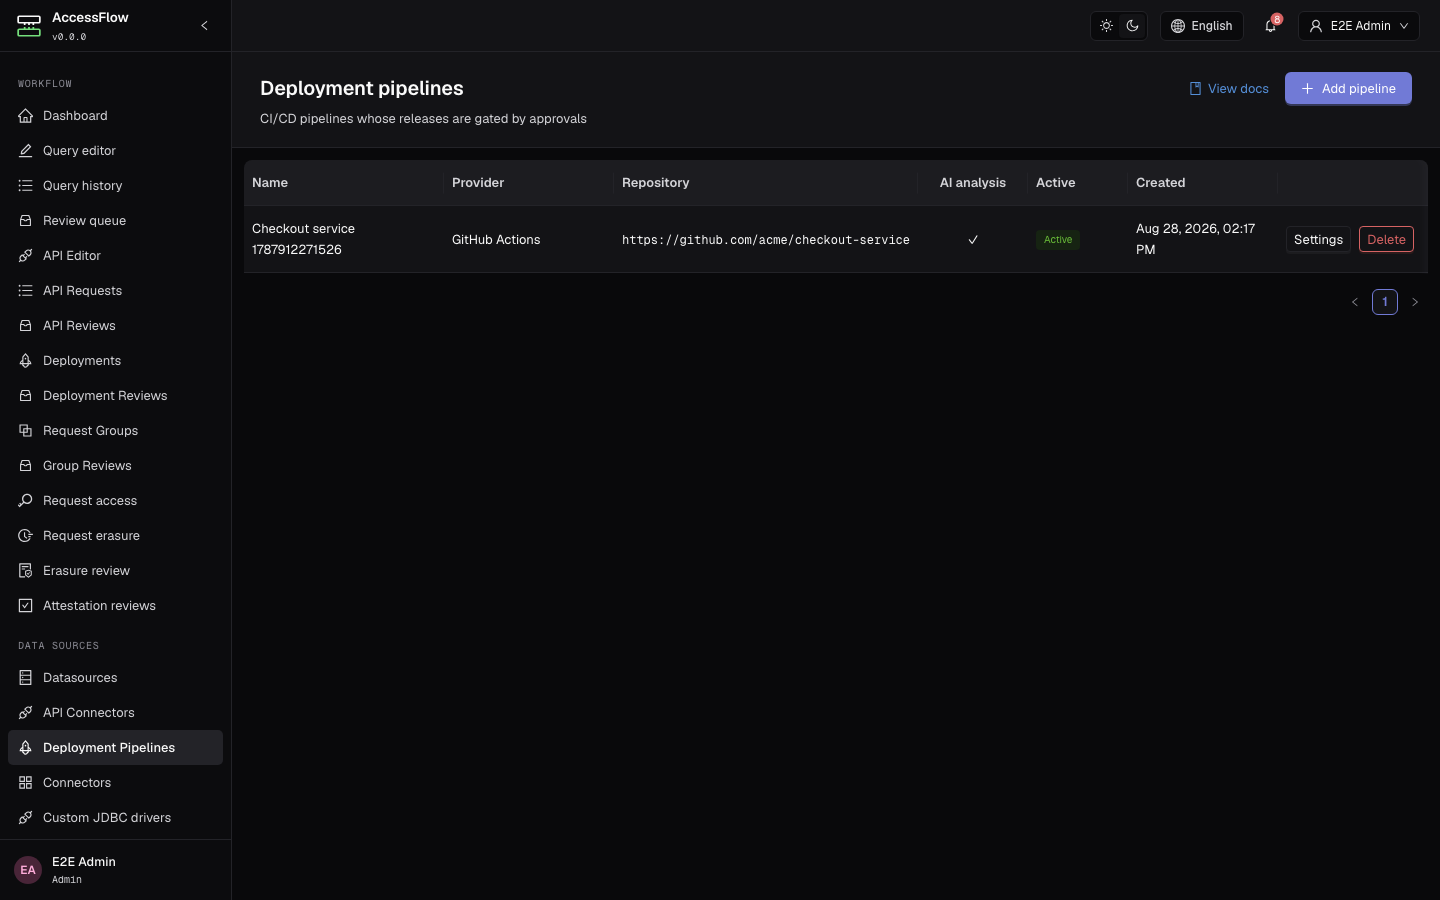
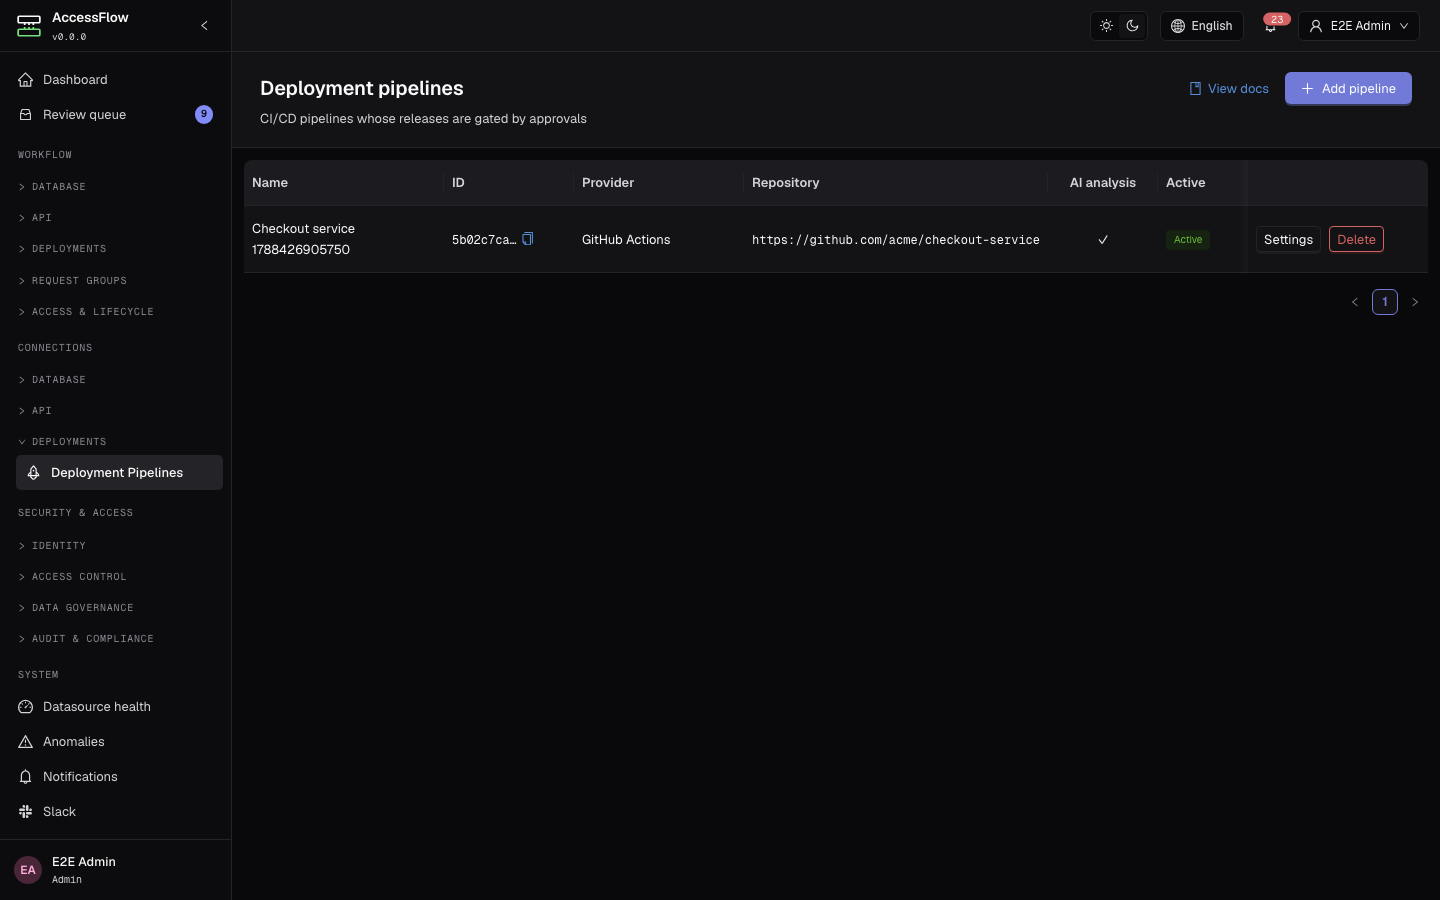
fix(AF-771): pin row actions, align docs, refresh deploygov screenshots

diff --git a/e2e/tests/deployment-pipelines.spec.ts b/e2e/tests/deployment-pipelines.spec.ts
@@ -1,6 +1,6 @@
 import { expect, test } from '@playwright/test';
 import { loginViaApi } from '../helpers/datasources';
-import { activeTabPanel, clickTab } from '../helpers/ui';
+import { activeTabPanel, clickTab, findRowAcrossPages } from '../helpers/ui';
 import {
   createDeploymentPipelineViaApi,
   deleteDeploymentPipelineViaApi,
@@ -140,34 +140,6 @@ test.describe.serial('deployment pipeline administration (#696)', () => {
     await expect(ciPanel.getByTestId('ci-snippet')).toContainText(pipeline.id);
   });
 
-  test('exposes the pipeline id as a copyable header control (#771)', async ({ page, request }) => {
-    const pipeline = await createDeploymentPipelineViaApi(request, adminAccessToken, {
-      name: `e2e-pipeline-id-${Date.now()}`,
-      aiAnalysisEnabled: false,
-    });
-    createdPipelineIds.push(pipeline.id);
-
-    // Chromium only grants clipboard writes to a permitted origin.
-    await page.context().grantPermissions(['clipboard-read', 'clipboard-write']);
-    await login(page, ADMIN_EMAIL, ADMIN_PASSWORD);
-
-    // The list carries the truncated id; the settings header carries it in full.
-    await page.goto('/admin/deployment-pipelines');
-    const row = page.locator('.ant-table-row', { hasText: pipeline.name });
-    await expect(row).toBeVisible({ timeout: 15_000 });
-    await expect(row.getByTestId('pipeline-id')).toContainText(pipeline.id.slice(0, 8));
-
-    await page.goto(`/admin/deployment-pipelines/${pipeline.id}`);
-    await expect(page.getByRole('heading', { name: pipeline.name })).toBeVisible({
-      timeout: 15_000,
-    });
-    await expect(page.getByTestId('pipeline-id')).toHaveText(pipeline.id);
-
-    // AntD derives the copy button's accessible name from the tooltip string.
-    await page.getByRole('button', { name: 'Copy pipeline ID' }).click();
-    const copied = await page.evaluate(() => navigator.clipboard.readText());
-    expect(copied).toBe(pipeline.id);
-  });
 
   test('deletes a pipeline from the list', async ({ page, request }) => {
     const pipeline = await createDeploymentPipelineViaApi(request, adminAccessToken, {
@@ -192,5 +164,39 @@ test.describe.serial('deployment pipeline administration (#696)', () => {
     await expect(page.locator('.ant-table-row', { hasText: pipeline.name })).toHaveCount(0, {
       timeout: 10_000,
     });
+  });
+
+  test('exposes the pipeline id as a copyable control on both pages (#771)', async ({
+    page,
+    request,
+  }) => {
+    const pipeline = await createDeploymentPipelineViaApi(request, adminAccessToken, {
+      name: `e2e-pipeline-id-${Date.now()}`,
+      aiAnalysisEnabled: false,
+    });
+    createdPipelineIds.push(pipeline.id);
+
+    // The readText() assertion below is what needs a grant; the write does not.
+    await page.context().grantPermissions(['clipboard-read', 'clipboard-write']);
+    await login(page, ADMIN_EMAIL, ADMIN_PASSWORD);
+
+    // The list carries the truncated id. The pipeline list is unordered and org-shared, so the
+    // row is not reliably on page 1 under the parallel project.
+    await page.goto('/admin/deployment-pipelines');
+    const row = page.locator('.ant-table-row', { hasText: pipeline.name });
+    await findRowAcrossPages(page, row);
+    await expect(row.getByTestId('pipeline-id')).toContainText(pipeline.id.slice(0, 8));
+
+    // The settings header carries it in full — the point of the issue: no URL reading.
+    await page.goto(`/admin/deployment-pipelines/${pipeline.id}`);
+    await expect(page.getByRole('heading', { name: pipeline.name })).toBeVisible({
+      timeout: 15_000,
+    });
+    await expect(page.getByTestId('pipeline-id')).toHaveText(pipeline.id);
+
+    // AntD derives the copy button's accessible name from the tooltip string.
+    await page.getByRole('button', { name: 'Copy pipeline ID' }).click();
+    const copied = await page.evaluate(() => navigator.clipboard.readText());
+    expect(copied).toBe(pipeline.id);
   });
 });

diff --git a/website/docs/configuration/review-workflows/index.html b/website/docs/configuration/review-workflows/index.html
@@ -681,11 +681,8 @@ APPROVED → FAILED (execution error)</pre>
           <p>
             <strong>Configure it.</strong> Create pipelines at
             <code>/admin/deployment-pipelines</code> (requires the
-            <code>DEPLOYMENT_PIPELINE_MANAGE</code> permission, held by <code>ADMIN</code>). A CI job
-            names its pipeline by <strong>id</strong>, never by name, so that id is copyable from
-            both places you meet a pipeline: shortened in the list's <strong>ID</strong> column, and
-            in full beneath the name on the pipeline's settings page. Each pipeline's settings page
-            carries seven tabs. Alongside <strong>General</strong> and the
+            <code>DEPLOYMENT_PIPELINE_MANAGE</code> permission, held by <code>ADMIN</code>). Each
+            pipeline's settings page carries seven tabs. Alongside <strong>General</strong> and the
             <strong>CI setup</strong> snippet sit <strong>Environments</strong> (promotion
             order, tags, required approvals, review-plan override, break-glass opt-in),
             <strong>Versions</strong> (which version each environment is running — see below),
@@ -701,6 +698,14 @@ APPROVED → FAILED (execution error)</pre>
             held by <code>ADMIN</code> and <code>REVIEWER</code>) — the same page that holds
             query and API-request reviews, with one tab per kind of request you may review and a
             pending count on each; everyone sees their own at <code>/deployments</code>.
+          </p>
+          <p>
+            <strong>Where the pipeline id is.</strong> A CI job names its pipeline by
+            <strong>id</strong>, never by name, because a trigger-only API key is not allowed to
+            list pipelines and so has nothing to resolve a name against. You can copy that id from
+            either place you meet a pipeline: the list's <strong>ID</strong> column, which shows a
+            shortened form, and the pipeline's settings page, which shows it in full beneath the
+            name. Both copy the whole UUID, not the shortened form.
           </p>
           <figure class="docs-figure">
             <picture>

diff --git a/frontend/src/components/deployments/PipelineIdCopy.test.tsx b/frontend/src/components/deployments/PipelineIdCopy.test.tsx
@@ -1,4 +1,4 @@
-import { describe, expect, it, vi } from 'vitest';
+import { afterEach, describe, expect, it, vi } from 'vitest';
 import { act, fireEvent, render, screen } from '@testing-library/react';
 import '@/i18n';
 import { PipelineIdCopy } from './PipelineIdCopy';
@@ -6,6 +6,8 @@ import { PipelineIdCopy } from './PipelineIdCopy';
 const ID = '11111111-2222-3333-4444-555555555555';
 
 describe('PipelineIdCopy', () => {
+  afterEach(() => vi.unstubAllGlobals());
+
   it('renders the whole id and a t()-labelled copy control', () => {
     render(<PipelineIdCopy id={ID} />);
 
@@ -24,10 +26,11 @@ describe('PipelineIdCopy', () => {
       fireEvent.click(screen.getByRole('button', { name: 'Copy pipeline ID' }));
     });
     expect(writeText).toHaveBeenCalledWith(ID);
-    vi.unstubAllGlobals();
+    // The rendered text is not the value, so the whole id has to stay reachable on hover.
+    expect(screen.getByTestId('pipeline-id')).toHaveAttribute('title', ID);
   });
 
-  it('stops a copy click from reaching a clickable row wrapper', async () => {
+  it('stops a click on the id text from reaching a clickable row wrapper', async () => {
     const onRowClick = vi.fn();
     render(
       <div onClick={onRowClick}>
@@ -35,8 +38,10 @@ describe('PipelineIdCopy', () => {
       </div>,
     );
 
+    // The id text, not the copy button: AntD stops the button's click on its own, so only a
+    // click on the value itself exercises this component's handler.
     await act(async () => {
-      fireEvent.click(screen.getByRole('button', { name: 'Copy pipeline ID' }));
+      fireEvent.click(screen.getByTestId('pipeline-id'));
     });
     expect(onRowClick).not.toHaveBeenCalled();
   });

diff --git a/website/docs/guides/deployment-approval/index.html b/website/docs/guides/deployment-approval/index.html
@@ -393,9 +393,9 @@
           <div class="docs-callout info">
             <strong>Copy the pipeline id now.</strong> Creating a pipeline lands you on its settings
             page, where the UUID sits under the pipeline name with a copy button beside it — that
-            UUID is <strong>the pipeline id</strong> your CI job needs. The pipeline list also
-            carries a shortened, copyable <em>ID</em> column, so you never have to open a pipeline
-            or read the address bar just to grab it.
+            UUID is <strong>the pipeline id</strong> your CI job needs. The pipeline list carries the
+            same id in an <em>ID</em> column, shortened for the table but copying the whole UUID, so
+            you never have to open a pipeline or read the address bar just to grab it.
           </div>
           <p>
             The pipeline is identified by that UUID rather than by name because a trigger-only API

diff --git a/frontend/src/components/deployments/PipelineIdCopy.tsx b/frontend/src/components/deployments/PipelineIdCopy.tsx
@@ -23,8 +23,11 @@ export function PipelineIdCopy({ id, truncate = false }: PipelineIdCopyProps) {
         text: id,
         tooltips: [t('deploygov.pipelines.copyId'), t('deploygov.pipelines.copiedId')],
       }}
-      // The pipeline list makes whole rows clickable; copying an id must not also navigate.
+      // The pipeline list makes whole rows clickable. AntD already stops the copy button's own
+      // click; this covers a click on the id text, so selecting the value never navigates away.
       onClick={(e) => e.stopPropagation()}
+      // Truncated, the rendered text is not the value — keep the whole id on hover and for AT.
+      title={truncate ? id : undefined}
     >
       {truncate ? `${id.slice(0, 8)}…` : id}
     </Typography.Text>

diff --git a/frontend/src/pages/admin/deployments/DeploymentPipelinesPage.test.tsx b/frontend/src/pages/admin/deployments/DeploymentPipelinesPage.test.tsx
@@ -102,10 +102,12 @@ describe('DeploymentPipelinesPage', () => {
     expect(rowEl).not.toBeNull();
     expect(within(rowEl!).getByTestId('pipeline-id')).toHaveTextContent('p-1…');
 
+    // A click on the id cell must not take the whole row's navigation handler with it.
     await act(async () => {
-      fireEvent.click(within(rowEl!).getByRole('button', { name: 'Copy pipeline ID' }));
+      fireEvent.click(within(rowEl!).getByTestId('pipeline-id'));
     });
     expect(screen.queryByText('settings-route')).not.toBeInTheDocument();
+    expect(within(rowEl!).getByRole('button', { name: 'Copy pipeline ID' })).toBeInTheDocument();
   });
 
   it('creates a pipeline from the modal and navigates to its settings', async () => {

diff --git a/frontend/src/pages/admin/deployments/DeploymentPipelinesPage.tsx b/frontend/src/pages/admin/deployments/DeploymentPipelinesPage.tsx
@@ -148,6 +148,9 @@ export function DeploymentPipelinesPage() {
       title: '',
       key: 'actions',
       width: 180,
+      // Pinned: with the id column added, an ordinary repository URL pushes the only two row
+      // actions past the right edge on a 1440px viewport.
+      fixed: 'right' as const,
       render: (_v, row) => (
         <span style={{ display: 'flex', gap: 8 }}>
           <Button

diff --git a/docs/09-deployment.md b/docs/09-deployment.md
@@ -297,8 +297,9 @@ Everything below is state inside the demo instance and in GitHub settings; none 
    key never expires.
 3. **Create the pipeline, environment and grant.** As an admin: sidebar → *Connections* →
    *Deployments* → **Deployment Pipelines** → **Add pipeline**, provider **GitHub Actions**. Creation lands on
-   `/admin/deployment-pipelines/<uuid>` — **that UUID in the address bar is the pipeline id**;
-   there is no ID column anywhere else, only the interpolated snippet on the **CI setup** tab. Then
+   the pipeline's settings page, where the UUID sits under the pipeline name with a copy button
+   beside it — **that UUID is the pipeline id**. The pipeline list carries the same id, shortened,
+   in its **ID** column; either copy control puts the whole UUID on the clipboard. Then
    **Environments** → **Add environment** named `demo` with **Requires review** on and **Required
    approvals** `1`; then **Permissions** → type the service account's email into the **User**
    select (it will not be on the first page), leave **Can trigger** on, click **Grant**.

diff --git a/docs/18-deployment-governance.md b/docs/18-deployment-governance.md
@@ -355,8 +355,8 @@ Every provider integration follows the same four beats — **submit idempotently
 gate → confirm execution → report the outcome** — and every one of them **fails the job** on a
 `404`, a terminal status, or the configured wait timeout. A pipeline is identified by UUID, since a
 trigger-only key cannot resolve names. That UUID is copyable straight from the admin UI (#771) —
-truncated on each row of the pipeline list, in full beside the name on the pipeline settings
-header — rather than having to be read out of the address bar.
+truncated on each row of the pipeline list, in full in the pipeline settings header's subtitle —
+rather than having to be read out of the address bar. Both controls copy the whole UUID.
 
 > **Operator runbook.** The end-to-end setup — service account, API key, pipeline, environments,
 > the `can_trigger` grant, approver scoping and the first gated release — is written up as a
